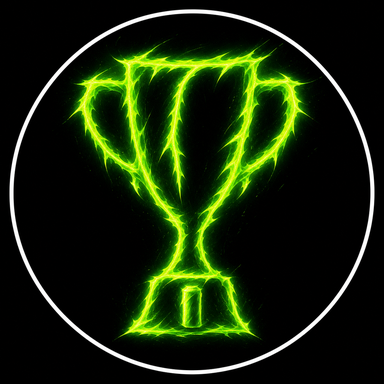
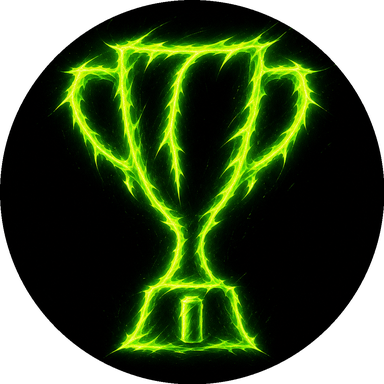
Succes : badges 5/10/25/50/100 canettes, cercle blanc retire, mise en page compacte (build v80)

diff --git a/docs/js/app.js b/docs/js/app.js
@@ -1565,9 +1565,12 @@ window.loadUpdates = function () {
 };
 // ── Succès (badges bêta) ──
 const MT_BADGES = [
-  { ico: '🏆', img: 'img/badges/premiere-canette.png?v=1', nom: 'Première canette', desc: 'Obtenir votre première canette', ok: (s) => s.owned >= 1 },
-  { ico: '🔟', nom: 'Collectionneur', desc: '10 canettes dans ta collection', ok: (s) => s.owned >= 10 },
-  { ico: '🏆', nom: 'Passionné', desc: '50 canettes dans ta collection', ok: (s) => s.owned >= 50 },
+  { img: 'img/badges/premiere-canette.png?v=2', ico: '🏆', nom: 'Première canette', desc: 'Obtenir votre première canette', ok: (s) => s.owned >= 1 },
+  { img: 'img/badges/canettes-5.png?v=1', ico: '🥫', nom: '5 canettes', desc: 'Avoir 5 canettes dans ta collection', ok: (s) => s.owned >= 5 },
+  { img: 'img/badges/canettes-10.png?v=1', ico: '🔟', nom: '10 canettes', desc: 'Avoir 10 canettes dans ta collection', ok: (s) => s.owned >= 10 },
+  { img: 'img/badges/canettes-25.png?v=1', ico: '🎖', nom: '25 canettes', desc: 'Avoir 25 canettes dans ta collection', ok: (s) => s.owned >= 25 },
+  { img: 'img/badges/canettes-50.png?v=1', ico: '🏅', nom: '50 canettes', desc: 'Avoir 50 canettes dans ta collection', ok: (s) => s.owned >= 50 },
+  { img: 'img/badges/canettes-100.png?v=1', ico: '👑', nom: '100 canettes', desc: 'Avoir 100 canettes dans ta collection', ok: (s) => s.owned >= 100 },
   { ico: '♥', nom: 'Envie', desc: 'Ajouter 1 canette à ta wishlist', ok: (s) => s.wish >= 1 },
   { ico: '🥤', nom: 'Dégustateur', desc: 'Marquer 1 canette comme bue', ok: (s) => s.drinks >= 1 },
   { ico: '🤝', nom: 'Social', desc: 'Avoir 1 ami', ok: (s) => s.friends >= 1 },
@@ -1589,16 +1592,19 @@ window.loadSucces = function () {
     let html = '<div style="padding:12px 14px;border:1px dashed var(--g);background:rgba(57,255,20,.06);font-size:12px;color:var(--tx);line-height:1.6;margin-bottom:16px;">'
       + '<b style="color:var(--g);">BADGES BÊTA</b> — ce sont des badges de test pour vérifier que tout fonctionne. Les vrais badges seront ajoutés plus tard.</div>';
     html += '<div style="font-size:13px;color:var(--mu);margin-bottom:14px;">' + done + ' / ' + MT_BADGES.length + ' débloqués</div>';
-    html += '<div style="display:grid;grid-template-columns:repeat(auto-fill,minmax(180px,1fr));gap:10px;">';
+    html += '<div style="display:grid;grid-template-columns:repeat(auto-fill,minmax(240px,1fr));gap:8px;">';
     MT_BADGES.forEach((b) => {
       const ok = b.ok(s);
-      html += '<div style="background:#000;border:1px solid ' + (ok ? 'var(--g)' : 'var(--br)') + ';padding:16px;opacity:' + (ok ? '1' : '.5') + ';">'
-        + (b.img
-          ? '<img src="' + b.img + '" alt="" style="display:block;width:96px;height:96px;object-fit:contain;margin-bottom:8px;' + (ok ? '' : 'filter:grayscale(1) brightness(.5);') + '"/>'
-          : '<div style="font-size:28px;margin-bottom:8px;">' + (ok ? b.ico : '🔒') + '</div>')
-        + '<div style="font-family:\'Bebas Neue\',sans-serif;font-size:20px;letter-spacing:1.5px;color:' + (ok ? 'var(--g)' : 'var(--tx)') + ';">' + escapeHtml(b.nom) + '</div>'
-        + '<div style="font-size:12px;color:var(--mu);line-height:1.5;margin-top:4px;">' + escapeHtml(b.desc) + '</div>'
-        + '<div style="font-size:10px;letter-spacing:2px;margin-top:10px;color:' + (ok ? 'var(--g)' : 'var(--mu)') + ';">' + (ok ? '✓ DÉBLOQUÉ' : 'VERROUILLÉ') + '</div></div>';
+      const ico = b.img
+        ? '<img src="' + b.img + '" alt="" style="width:64px;height:64px;flex:none;object-fit:contain;' + (ok ? '' : 'filter:grayscale(1) brightness(.45);') + '"/>'
+        : '<div style="width:64px;height:64px;flex:none;display:flex;align-items:center;justify-content:center;font-size:30px;' + (ok ? '' : 'filter:grayscale(1);') + '">' + (ok ? b.ico : '🔒') + '</div>';
+      html += '<div style="display:flex;align-items:center;gap:12px;background:#000;border:1px solid ' + (ok ? 'var(--g)' : 'var(--br)') + ';padding:10px 12px;opacity:' + (ok ? '1' : '.6') + ';">'
+        + ico
+        + '<div style="min-width:0;">'
+        + '<div style="font-family:\'Bebas Neue\',sans-serif;font-size:18px;letter-spacing:1.5px;color:' + (ok ? 'var(--g)' : 'var(--tx)') + ';">' + escapeHtml(b.nom) + '</div>'
+        + '<div style="font-size:12px;color:var(--mu);line-height:1.4;">' + escapeHtml(b.desc) + '</div>'
+        + '<div style="font-size:10px;letter-spacing:2px;margin-top:4px;color:' + (ok ? 'var(--g)' : 'var(--mu)') + ';">' + (ok ? '✓ DÉBLOQUÉ' : 'VERROUILLÉ') + '</div>'
+        + '</div></div>';
     });
     html += '</div>';
     el.innerHTML = html;
@@ -1917,7 +1923,7 @@ function mtFamThumb(c, w) {
 }
 const MT_EDLBL = { modernwarfare4: 'Modern Warfare 4', blackops7: 'Black Ops 7', blackops6: 'Black Ops 6', apex: 'Apex' };
 const MT_APPVER = '1.0.1';
-const MT_BUILD = 'mt-v79';
+const MT_BUILD = 'mt-v80';
 const MT_BUILD_DATE = '16/10/2026';
 window.MT_BUILD = MT_BUILD;
 window.MT_APPVER = MT_APPVER;
@@ -2726,7 +2732,7 @@ function loadMaintStatus() {
 
 // ── PWA ──
 if ('serviceWorker' in navigator) {
-  window.addEventListener('load', () => navigator.serviceWorker.register('sw.js?v=79', { updateViaCache: 'none' })
+  window.addEventListener('load', () => navigator.serviceWorker.register('sw.js?v=80', { updateViaCache: 'none' })
     .then((r) => { if (r && r.update) r.update(); }).catch(() => {}));
 }
 window.addEventListener('beforeinstallprompt', (e) => { e.preventDefault(); _installPrompt = e; const btn = document.getElementById('pwa-install-btn'); if (btn && user) btn.style.display = 'block'; });

diff --git a/docs/sw.js b/docs/sw.js
@@ -18,9 +18,9 @@ self.addEventListener('notificationclick', (e) => {
 
 // MonsterTracker statique — Service Worker
 // Cache d'abord (network-first en ligne, cache en secours) → fonctionne hors-ligne une fois visité.
-const CACHE = 'mt-v79';
-const IMGS = 'mt-img-v79';
-const SHELL = ['./', './index.html', './support.html', './css/style.css?v=79', './js/app.js?v=79', './js/support.js', './js/qrcode.min.js', './icon.png', './img/logo-wordmark.png', './manifest.json'];
+const CACHE = 'mt-v80';
+const IMGS = 'mt-img-v80';
+const SHELL = ['./', './index.html', './support.html', './css/style.css?v=80', './js/app.js?v=80', './js/support.js', './js/qrcode.min.js', './icon.png', './img/logo-wordmark.png', './manifest.json'];
 
 self.addEventListener('install', (e) => {
   e.waitUntil(caches.open(CACHE).then((c) => c.addAll(SHELL)).then(() => self.skipWaiting()));

diff --git a/docs/index.html b/docs/index.html
@@ -14,7 +14,7 @@
 <link rel="apple-touch-icon" href="icon.png"/>
 <link rel="manifest" href="manifest.json"/>
 <link href="https://fonts.googleapis.com/css2?family=Bebas+Neue&family=Barlow+Condensed:wght@400;600;700;800;900&family=Barlow:wght@400;500;600;700;800;900&display=swap" rel="stylesheet">
-<link rel="stylesheet" href="css/style.css?v=79">
+<link rel="stylesheet" href="css/style.css?v=80">
 </head>
 <body>
 <div id="sim-banner"><span>&#128065; SIMULATION VUE USER</span><button onclick="toggleSimUser()">RETOUR ADMIN</button></div>
@@ -732,6 +732,6 @@
 </div>
 
 <script src="js/qrcode.min.js"></script>
-<script type="module" src="js/app.js?v=79"></script>
+<script type="module" src="js/app.js?v=80"></script>
 </body>
 </html>

diff --git a/docs/support.html b/docs/support.html
@@ -126,6 +126,6 @@
   </div>
 </div>
 <div class="toasts" id="toasts"></div>
-<script type="module" src="js/support.js?v=79"></script>
+<script type="module" src="js/support.js?v=80"></script>
 </body>
 </html>
